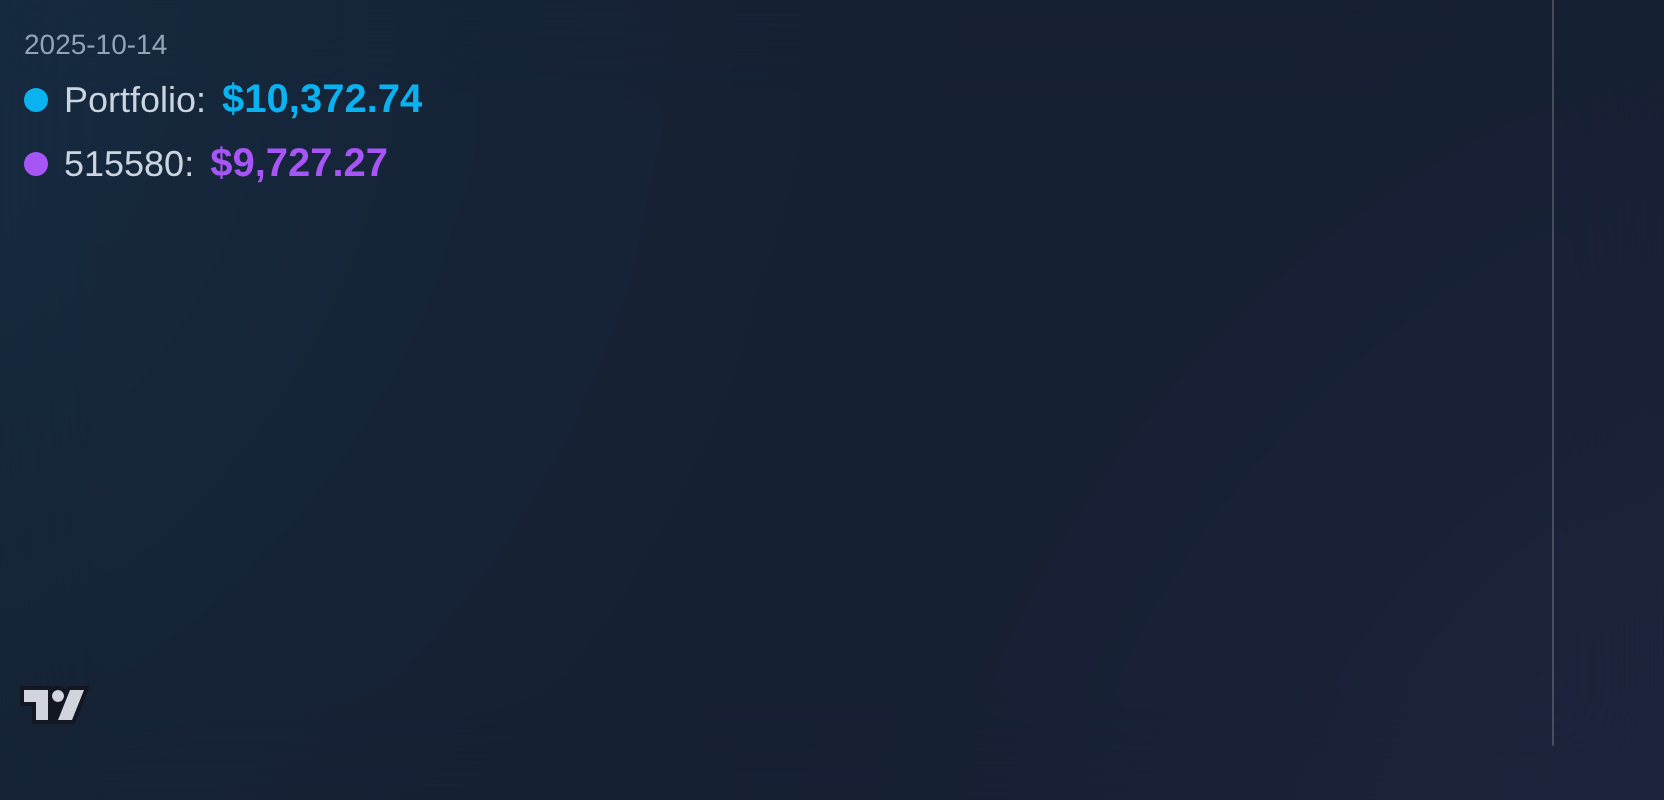
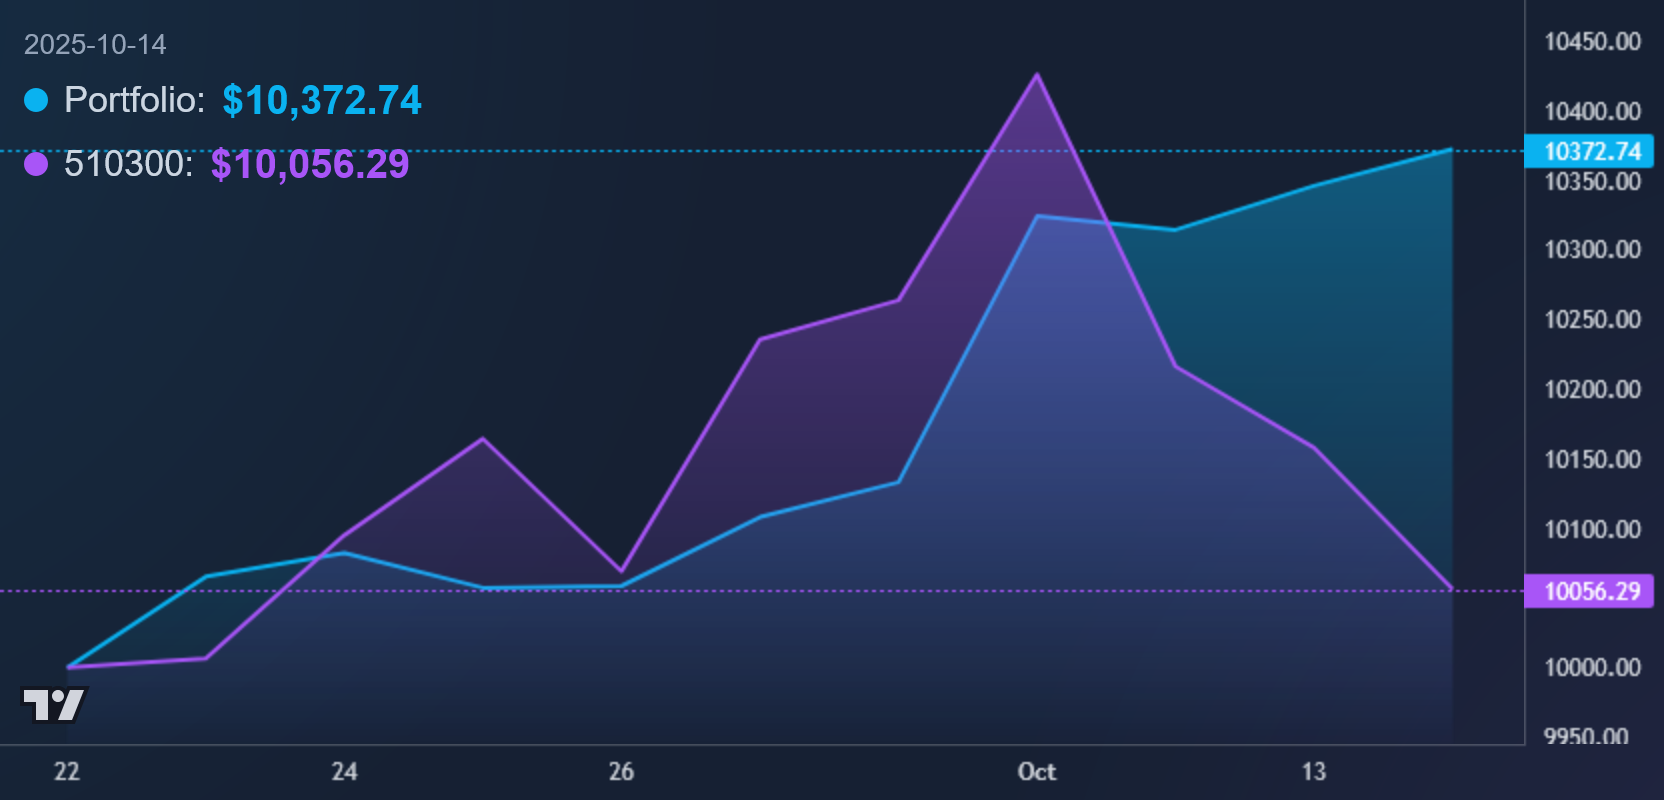
refactor: update benchmark ticker and regenerate report data
- Change benchmark ticker from 515580.SHH to 510300.SHH
- Update cached stock data with new entries
- Switch browser from chromium to firefox for report generation
- Regenerate portfolio metrics and chart data with new benchmark

diff --git a/generate_report.py b/generate_report.py
@@ -22,7 +22,7 @@ if not API_KEY:
     raise ValueError("ALPHA_VANTAGE_API_KEY environment variable not set.")
 CACHE_DIR = "data_cache"
 TICKERS = ['513110.SHH', '518660.SHH', '159649.SHZ', '515450.SHH']
-BENCHMARK_TICKER = '515580.SHH'
+BENCHMARK_TICKER = '510300.SHH'
 WEIGHTS = [0.25, 0.25, 0.25, 0.25]
 INITIAL_CAPITAL = 10000
 START_DATE = "2025-09-22"
@@ -205,7 +205,7 @@ def generate_png_from_html(html_path=OUTPUT_HTML_PATH, png_path=OUTPUT_PNG_PATH)
     success = False
     try:
         with sync_playwright() as p:
-            browser = p.chromium.launch()
+            browser = p.firefox.launch()
             page = browser.new_page(
                 viewport={"width": 1920, "height": 1080},
                 device_scale_factor=2
@@ -250,7 +250,7 @@ if __name__ == "__main__":
         sys.exit()
     
     print(f"Current time {eastern_time.strftime('%Y-%m-%d %H:%M:%S')} US Eastern Time is within the allowed window. Starting process...")
-
+    
     if not API_KEY or API_KEY == "YOUR_API_KEY_HERE": 
         raise ValueError("Alpha Vantage API Key not found. Please set it as an environment variable.")
     
